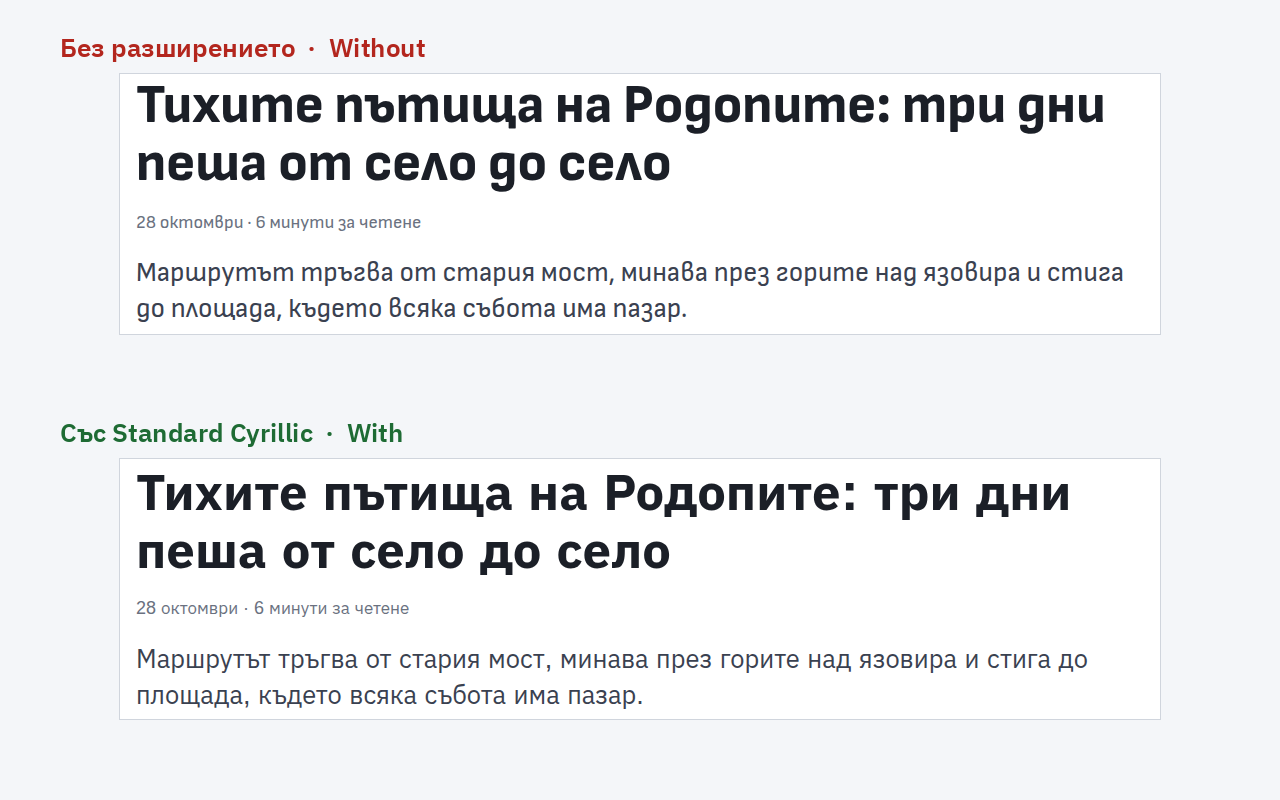
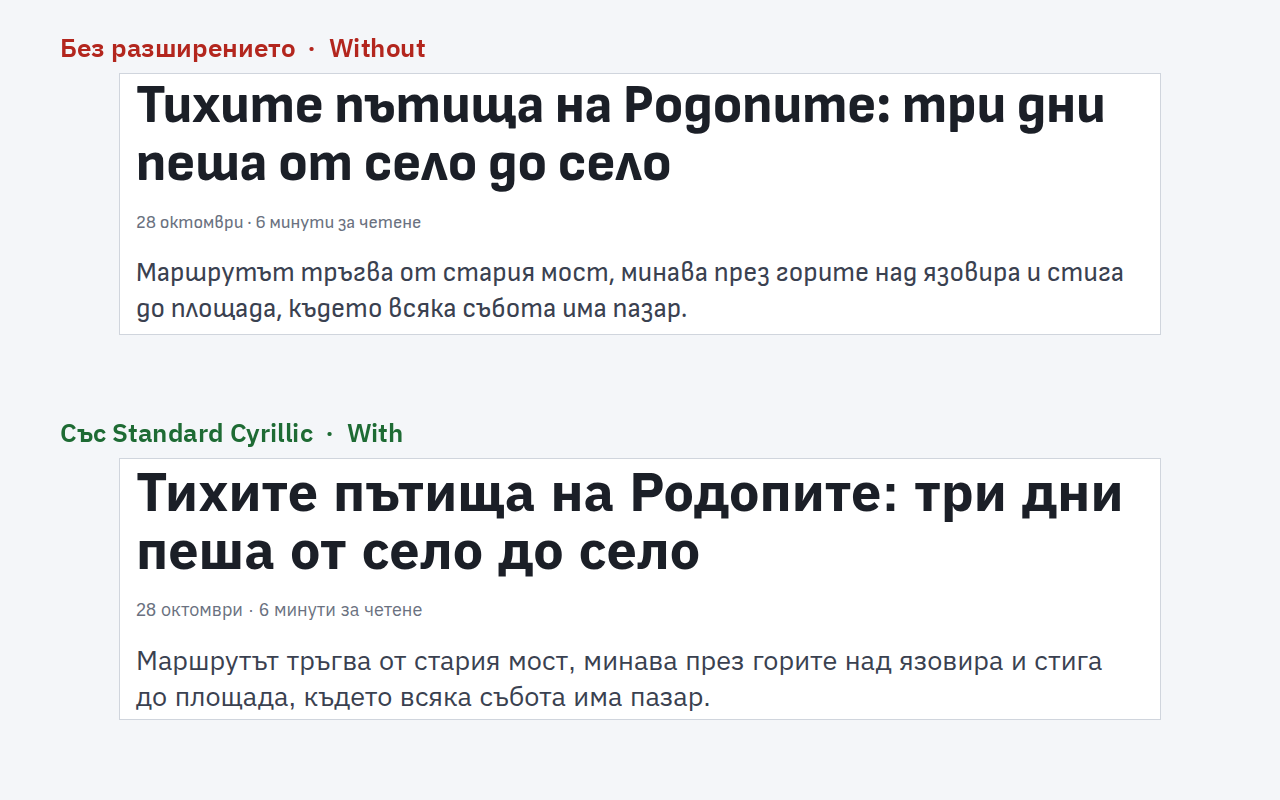
1.0.1: Plex at the site's size, never shrunk, so the text keeps its width
A reader found the text more compressed with the extension. Plex was
scaled to the site font's x-height, and its lowercase is taller than most
(0.516 em against Sofia Sans's 0.488 and Dnevnik's 0.497), so it was drawn
about 5% smaller, and the text came out 7 to 8% narrower, the narrower
standard т taking the rest. Plex is now drawn at the site's size, and
larger only where the site's lowercase is taller: Dnevnik's paragraphs
break where they break without the extension. The store screenshots are
drawn again with it.

Claude-Session: https://claude.ai/code/session_01NbKU2jatptWKqf2dWKHc8m

Changed region(s): [[0.125, 0.5938, 0.875, 0.7188], [0.0938, 0.8125, 0.875, 0.9062], [0.0938, 0.75, 0.3438, 0.7812]]

diff --git a/content.js b/content.js
@@ -121,7 +121,9 @@ async function check(face) {
     const { ratio, xHeight } = measure(face, family);
     if (ratio < HANDWRITTEN_RATIO) return;
     // Plex's x-height measured under a name of its own, so that the letters
-    // put in are as tall as the font's own
+    // put in are at least as tall as the font's own: larger where the font's
+    // lowercase is taller, never smaller, as Plex shrunk to a shorter
+    // x-height made the text look narrow (a reader, 28 October 2026)
     const probeFile = plexFile(face, weightOf(face));
     const probeFamily = `standard-cyrillic-probe-${probeFile}`;
     const probe = new FontFace(probeFamily, (await plexBytes(probeFile)).slice(0), {
@@ -134,7 +136,7 @@ async function check(face) {
     document.fonts.delete(probe);
     const scale =
         plex.xHeight > 0 && xHeight > 0
-            ? Math.min(1.25, Math.max(0.8, xHeight / plex.xHeight))
+            ? Math.min(1.25, Math.max(1, xHeight / plex.xHeight))
             : 1;
     for (const [weight, plexWeight] of weightBands(face)) {
         if (!enabled) return;
